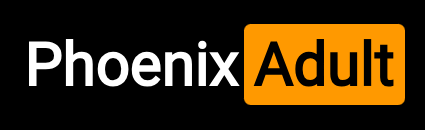
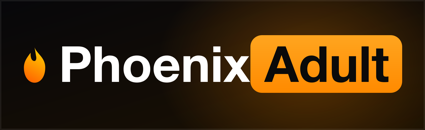
feat: link movie pages to the scrape source, new brand images, Jellyfin 12-only releases (#143)
- ExternalIds/ExternalUrlProvider.cs: implement Jellyfin's IExternalUrlProvider (same
  approach as ThePornDB) so a movie page shows a PhoenixAdult link pointing at the
  original scene URL already stored in ProviderIds["PhoenixAdultURL"]. Emby keeps using
  the existing MovieURL IExternalId and is excluded from the new type.
- docs/thumb.png: refreshed 425x130 catalog wordmark (flame + PhoenixAdult lockup).
- docs/logo.png: new 1200x400 logo, shown in the README.
- scripts/manifest.sh: TARGET_ABI override, a 12.0.0.0 floor for newly published
  versions only, and a guard that a release can never drop or rewrite an already
  published version. Legacy pre-12 entries stay installable but are unmaintained.
- release.yml: pin TARGET_ABI=12.0.0.0 and fail before pushing dist unless the newest
  version is Jellyfin 12 while the legacy pre-12 entries are still present.

diff --git a/Jellyfin.Plugin.PhoenixAdult/ExternalIds/ExternalUrlProvider.cs b/Jellyfin.Plugin.PhoenixAdult/ExternalIds/ExternalUrlProvider.cs
@@ -1,0 +1,23 @@
+#if __EMBY__
+#else
+using System.Collections.Generic;
+using MediaBrowser.Controller.Entities;
+using MediaBrowser.Controller.Providers;
+using MediaBrowser.Model.Entities;
+
+namespace PhoenixAdult.ExternalId
+{
+    public class ExternalUrlProvider : IExternalUrlProvider
+    {
+        public string Name => Plugin.Instance.Name;
+
+        public IEnumerable<string> GetExternalUrls(BaseItem item)
+        {
+            if (item != null && item.TryGetProviderId(this.Name + "URL", out var externalUrl) && !string.IsNullOrWhiteSpace(externalUrl))
+            {
+                yield return externalUrl;
+            }
+        }
+    }
+}
+#endif

diff --git a/README.md b/README.md
@@ -1,3 +1,7 @@
+<p align="center">
+  <img src="./docs/logo.png" width="420" alt="PhoenixAdult" />
+</p>
+
 # PhoenixAdult
 
 This metadata provider helps fill Jellyfin/Emby with information for your adult videos by pulling from the original site
@@ -24,6 +28,7 @@ This metadata provider helps fill Jellyfin/Emby with information for your adult 
   - Genres / Categories / Tags
   - PornStars
   - Movie Poster(s) / Background Art
+- Links a movie page back to the site it was scraped from
 
 ## File Naming
 
